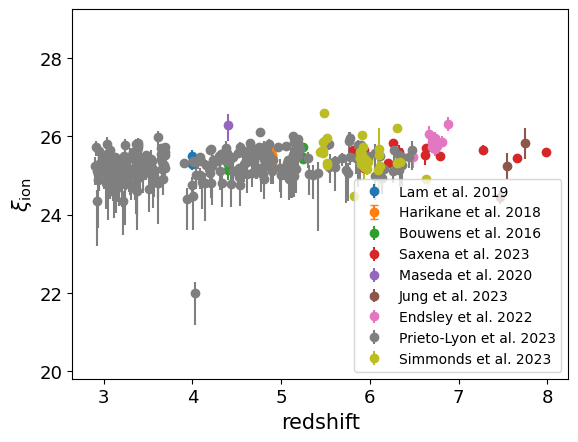
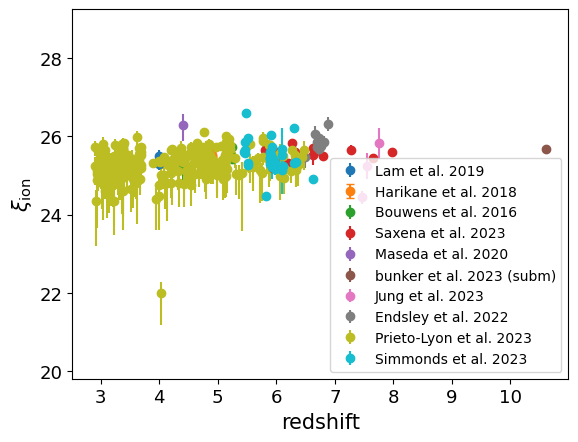
add constraint to xi_ion

diff --git a/corecon/data/ionizing_photons_production_efficiency/Bunker_et_al_2023.py b/corecon/data/ionizing_photons_production_efficiency/Bunker_et_al_2023.py
@@ -1,0 +1,36 @@
+dictionary_tag         = "bunker et al. 2023 (subm)"
+
+reference              = "Bunker, Saxena, Cameron, Willott, Curtis-Lake, Jakobsen, et al., subm."
+
+url                    = "https://ui.adsabs.harvard.edu/abs/2023arXiv230207256B/abstract"
+
+description            = \
+"""
+From JWST/NIRSpec observations (as part of JADES) of GN-z11
+"""
+
+data_structure         = "points" #grid or points
+
+extracted              = False
+
+ndim                   = 1
+
+dimensions_descriptors = ["redshift"]
+
+axes                   = [10.6034]
+
+values                 = [25.67]
+
+err_up                 = [0.02]
+
+err_down               = [0.02]
+
+upper_lim              = False
+
+lower_lim              = False
+
+log_Mstar              = [8.73]
+
+err_up_log_Mstar       = [0.06]
+
+err_down_log_Mstar     = [0.06]

diff --git a/docs/datarst/ionizing_photons_production_efficiency.rst b/docs/datarst/ionizing_photons_production_efficiency.rst
@@ -79,3 +79,9 @@ Data
 
    <a href="https://ui.adsabs.harvard.edu/abs/20223MNRAS.tmp.1726S/abstract" target="_blank">Simmonds et al. 2023</a>
 
+|bunker et al. 2023 (subm)|
+
+.. |bunker et al. 2023 (subm)| raw:: html
+
+   <a href="https://ui.adsabs.harvard.edu/abs/2023arXiv230207256B/abstract" target="_blank">bunker et al. 2023 (subm)</a>
+
